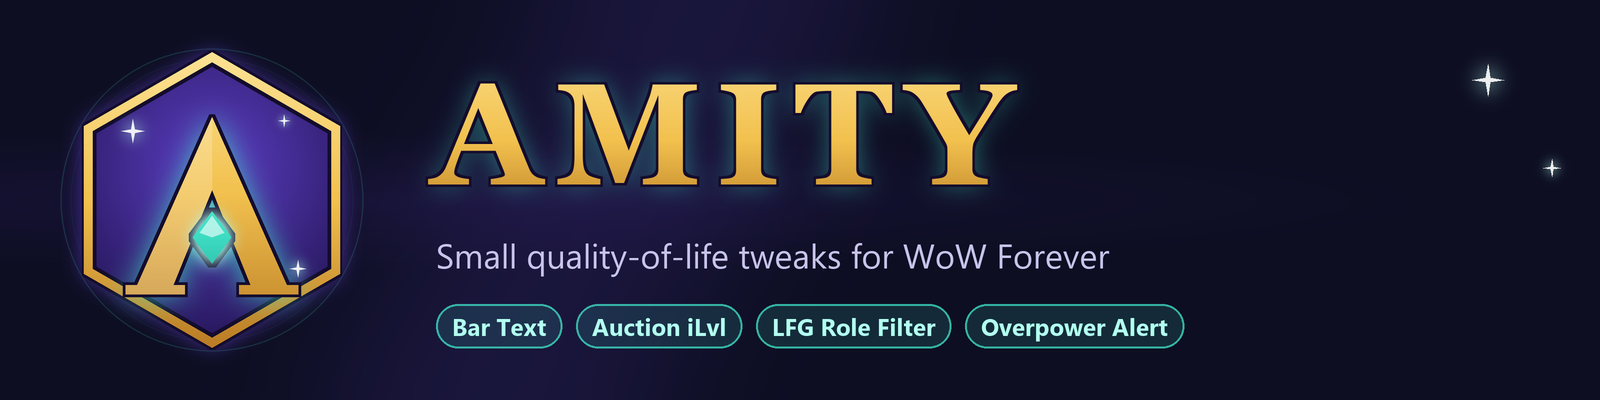
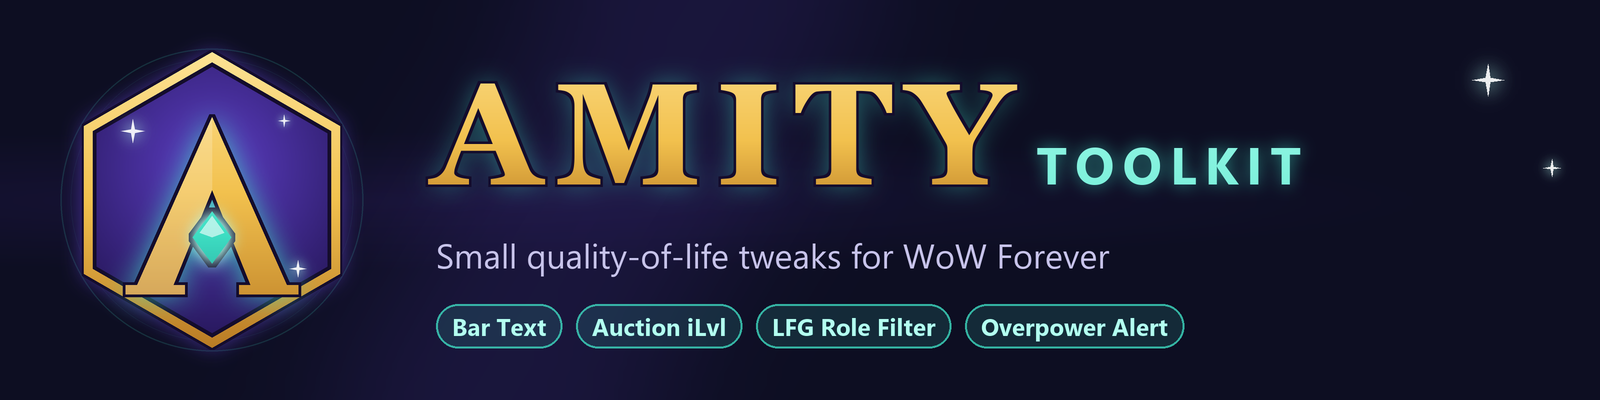
Rename the project to Amity Toolkit
Display name in the TOC, panel and minimap tooltip, TOOLKIT on the
banner, longer CurseForge description, and links to the new
OxiAction/amity-toolkit repository. Folder name, saved variables and
slash commands are unchanged.

Changed region(s): [[0.625, 0.36, 0.8125, 0.48]]

diff --git a/tools/make_art.py b/tools/make_art.py
@@ -1,5 +1,5 @@
 """
-Renders the Amity artwork with Pillow:
+Renders the Amity Toolkit artwork with Pillow:
 
   Media/Icon.tga             64x64 in-game icon (TOC IconTexture)
   curseforge/logo.png        400x400 CurseForge project avatar
@@ -281,6 +281,13 @@ def make_banner(final=(1600, 400)):
     img.alpha_composite(glow(wm, H * 0.03, TEAL, 0.5))
     img.alpha_composite(fill(dilate(wm, H * 0.014), Image.new("RGB", size, OUTLINE)))
     img.alpha_composite(fill(wm, vertical_gradient(size, [(0, GOLD_LIGHT), (0.35, GOLD), (0.6, GOLD_DARK), (1, GOLD_DARK)])))
+
+    # "TOOLKIT" in teal, bottom-aligned with the wordmark
+    sub = font("segoeuib.ttf", int(H * 0.13))
+    sx = tx + text_width("AMITY", word, int(H * 0.035)) + int(H * 0.06)
+    sm = text_mask(size, (sx, int(H * 0.32)), "TOOLKIT", sub, tracking=int(H * 0.02))
+    img.alpha_composite(glow(sm, H * 0.02, TEAL, 0.6))
+    img.alpha_composite(fill(sm, vertical_gradient(size, [(0, TEAL_LIGHT), (1, TEAL)])))
 
     # tagline
     tag = font("segoeui.ttf", int(H * 0.085))

diff --git a/curseforge/DESCRIPTION.md b/curseforge/DESCRIPTION.md
@@ -1,33 +1,105 @@
-![Amity](https://raw.githubusercontent.com/OxiAction/amity-wow-addon/main/curseforge/banner.png)
+![Amity Toolkit](https://raw.githubusercontent.com/OxiAction/amity-toolkit/main/curseforge/banner.png)
 
-**Amity** is a small collection of quality-of-life tweaks for **World of Warcraft: Forever**. Each feature is a module you can switch on or off from the minimap button. Modules you don't use stay completely inactive.
+# Amity Toolkit – a growing quality-of-life toolkit for WoW Forever
 
-## Modules
+**Amity Toolkit** is a lightweight, modular addon for **World of Warcraft: Forever**. It started as a handful of small standalone addons that each fixed one annoyance. Those are now combined into one tidy package with one place to manage them.
 
-### Bar Text
-Health and resource text is always visible on your **player**, **target** and **target-of-target** frames, formatted as `100/200 50%`, so you don't have to hover. Font sizes are adjustable, and the original Blizzard "Status Text" format is still available.
-`/abt` for options.
+Every feature is a **module**. Turn on what you want and leave the rest off. Modules you switch off stay completely inactive: they don't register events or hook anything. You manage everything from a small panel that opens from the **minimap button**.
 
-### Auction Item Level
-Adds an **iLvl** column to the auction house browse results. Click the header to sort by item level, click again to reverse. On weapons and armor it appears next to Blizzard's required-level column.
-`/ail all on` also shows item level for non-equipment.
+> **This is just the beginning.** Amity Toolkit keeps growing. New modules will be added over time, so features keep arriving without you having to install, update and manage a pile of separate addons. Ideas and requests are welcome!
 
-### LFG Role Filter
-Adds **Tank / Healer / DPS** toggle buttons to the Looking For Group browse list. Solo players are matched by the roles they can fill. Groups are matched by the roles they still need, or by the roles they already have with `/lfgrf mode has`. Your own listing is always shown.
+---
 
-### Overpower Alert *(warriors)*
-Shows a movable Overpower icon with a 5 second countdown when your target dodges, plus an optional sound.
-`/opa test` to move the icon, `/opa lock` when done.
+## ✨ Current modules
 
-## Usage
+### 🩸 Bar Text
+Stop hovering over your unit frames to see numbers. Bar Text **always shows health and resource values** on your:
 
-- **Minimap button:** click it to open the modules panel. Drag it to move it around the minimap.
-- `/amity` opens the panel. `/amity help` lists every command.
-- Switching a module on or off needs a UI reload. The panel shows a **Reload UI** button when needed.
+- **Player** frame
+- **Target** frame
+- **Target-of-target** frame, which normally has no text at all
 
-## Notes
+Values are shown in a compact, readable format: **`100/200 50%`** (current / maximum and percent).
 
-- Built for the WoW Forever client (Interface 16001) and its secret-value and combat-log rules: no taint of Blizzard frames, no combat log access.
-- If you used the standalone addons AlwaysBarText, AuctionItemLevel, LFGRoleFilter or OverpowerAlert, remove them. Amity contains all of them and warns you if one is still enabled.
+- Adjustable font size for player/target and for the small target-of-target bars
+- Optionally hide the maximum value on target-of-target (`cur pct%`)
+- Prefer Blizzard's own format? Switch back to the game's *Status Text* setting at any time
 
-Source and issues: [github.com/OxiAction/amity-wow-addon](https://github.com/OxiAction/amity-wow-addon)
+Command: `/abt` (`main`, `percent`, `mainsize`, `tot`, `totsize`, `totmax`, `reset`)
+
+---
+
+### 💰 Auction Item Level
+Shopping for gear in the auction house without seeing item levels is painful. This module adds an **iLvl column** to the browse results:
+
+- **Click the header to sort by item level** (highest first); click again to reverse
+- Numbers are colored by item quality, like Blizzard's own lists
+- On weapons and armor it sits next to Blizzard's required-level column, so you see both
+- Optionally show item levels for non-equipment too
+
+Command: `/ail all on|off`
+
+---
+
+### 🛡 LFG Role Filter
+Find the right group or player faster. Adds **Tank / Healer / DPS** toggle buttons to the Looking For Group browse list:
+
+- **Solo players** are matched by the roles they can fill
+- **Groups** are matched by the roles they **still need**, or by the roles they **already have** with `/lfgrf mode has`
+- Select several roles to see anyone matching any of them
+- A small counter shows how many results match out of the total
+- Your own listing is always shown
+
+Commands: `/lfgrf tank|healer|dps`, `/lfgrf mode needs|has`, `/lfgrf clear`
+
+---
+
+### ⚔ Overpower Alert *(Warrior)*
+Never miss an Overpower window again. When your target **dodges**, a large Overpower icon appears with a **5-second countdown**:
+
+- Movable: place it wherever you like
+- Optional raid-warning sound
+- Disappears automatically when you use Overpower or leave combat
+- Only active for warriors; other classes are unaffected
+
+Commands: `/opa test` (unlock and move), `/opa lock`, `/opa sound on|off`, `/opa reset`
+
+---
+
+## 🧭 The module panel
+
+- **Click the minimap button** to open the module panel
+- **Tick or untick** modules; the panel shows what changes after a reload
+- Press **Reload UI** to apply your changes
+- **Drag** the minimap button around the minimap edge to reposition it
+- Hide or show the button with `/amity minimap`
+- Also available through the **addon compartment** menu
+- `/amity help` lists every module and command
+
+---
+
+## 🔒 Built for WoW Forever
+
+WoW Forever runs on the modern engine, which has strict rules for addons: secret unit values, taint protection and a restricted combat log. Amity Toolkit is written with those rules in mind:
+
+- It never writes into Blizzard's frames, so it doesn't cause taint errors
+- Health and power text is drawn on the addon's own overlays, using the APIs the game allows for secret values
+- No combat log access; Overpower Alert uses spell usability events instead
+- Each module is isolated: if one fails, the others keep working
+
+---
+
+## 🔄 Upgrading from the standalone addons
+
+If you used **AlwaysBarText**, **AuctionItemLevel**, **LFGRoleFilter** or **OverpowerAlert**, please **disable or delete them**. Amity Toolkit contains all of them, and it will warn you in chat if an old one is still enabled. (Settings from the old addons are not carried over.)
+
+---
+
+## 🚀 What's next?
+
+Amity Toolkit is meant to grow. More quality-of-life modules are planned and will appear in future updates, each one optional and switchable from the same panel. Follow the project to get new features as they land.
+
+Have an idea for a module, or found a bug?
+👉 **[github.com/OxiAction/amity-toolkit](https://github.com/OxiAction/amity-toolkit/issues)**
+
+Thanks for using Amity Toolkit! 💜

diff --git a/curseforge/SETUP.md b/curseforge/SETUP.md
@@ -6,15 +6,15 @@ CurseForge → *Create Project* → **World of Warcraft** → Addon.
 
 | Field            | Value |
 | ---------------- | ----- |
-| Name             | `Amity` (if the name is taken: `Amity Toolkit` or `Amity QoL`) |
+| Name             | `Amity Toolkit` |
 | Summary          | `Small quality-of-life modules for WoW Forever: always-on bar text, auction iLvl, LFG role filter, Overpower alert.` |
 | Description      | paste `curseforge/DESCRIPTION.md` (the editor accepts Markdown) |
 | Avatar / logo    | `curseforge/logo.png` (400x400; `logo-1024.png` if a larger one is wanted) |
 | Main category    | *Miscellaneous* (or *Quality of Life* if offered) |
 | Extra categories | *Auction & Economy*, *Unit Frames*, *Class: Warrior*, *Combat* |
 | License          | MIT (matches `LICENSE`) |
-| Source           | GitHub, `https://github.com/OxiAction/amity-wow-addon` |
-| Issues           | `https://github.com/OxiAction/amity-wow-addon/issues` |
+| Source           | GitHub, `https://github.com/OxiAction/amity-toolkit` |
+| Issues           | `https://github.com/OxiAction/amity-toolkit/issues` |
 
 After saving, note the **Project ID** shown in the right sidebar of the project page.
 
@@ -25,7 +25,7 @@ Worth adding, taken in game:
 1. Player + target frames with the `100/200 50%` text
 2. Auction house with the iLvl column sorted
 3. LFG browse list with the role buttons
-4. The Amity panel opened from the minimap button
+4. The Amity Toolkit panel opened from the minimap button
 5. The Overpower alert (`/opa proc` simulates one)
 
 `curseforge/banner.png` can go in the gallery as well.

diff --git a/CHANGELOG.md b/CHANGELOG.md
@@ -2,7 +2,7 @@
 
 ## [1.0.0] - 2026-10-23
 
-First release of **Amity**, which combines four earlier standalone addons:
+First release of **Amity Toolkit**, which combines four earlier standalone addons:
 
 - **Bar Text** (was AlwaysBarText): always-on health / resource text formatted as `100/200 50%` on the player, target and target-of-target frames.
 - **Auction Item Level** (was AuctionItemLevel): sortable iLvl column in the auction house browse results.

diff --git a/README.md b/README.md
@@ -1,6 +1,6 @@
-![Amity](curseforge/banner.png)
+![Amity Toolkit](curseforge/banner.png)
 
-# Amity
+# Amity Toolkit
 
 Quality-of-life modules for **World of Warcraft: Forever** (Interface 16001), bundled in one addon. Each module can be switched on or off from the minimap button or with `/amity`.
 
